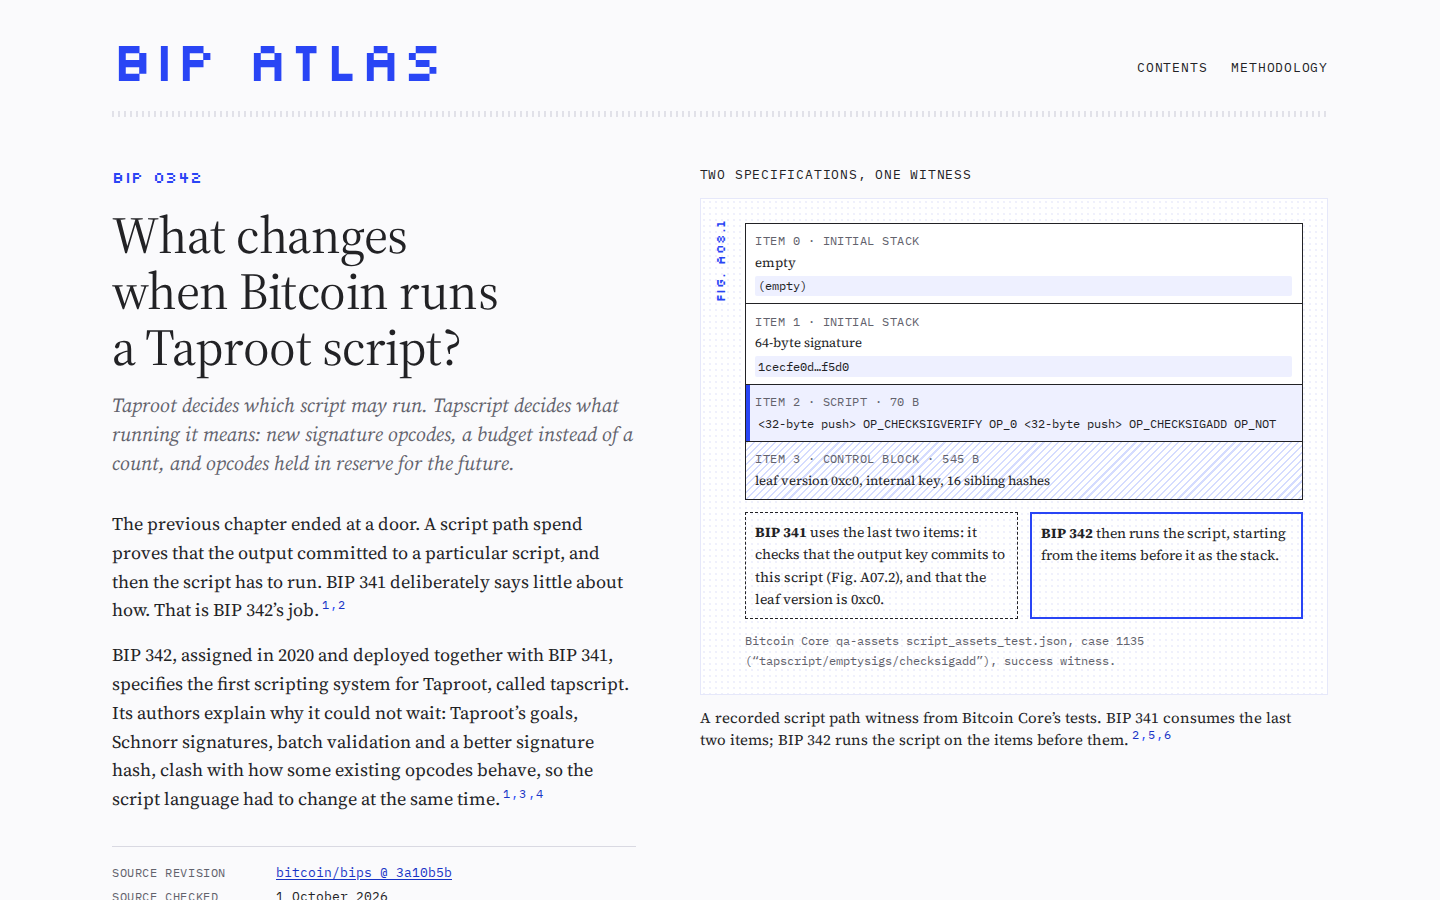
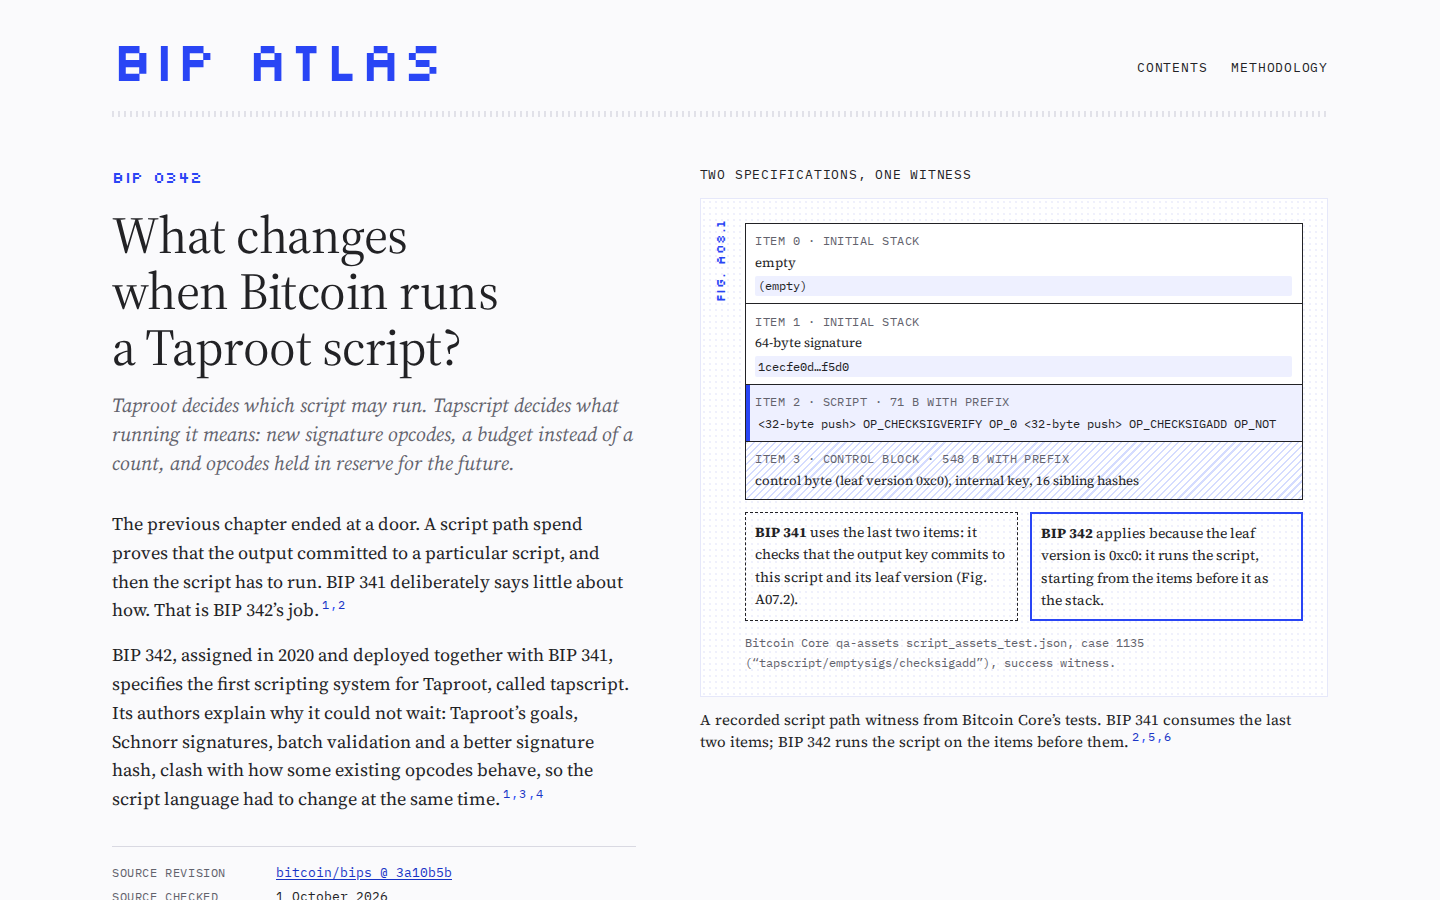
Apply Tapscript review; record phase two
Recorder: the 520-byte push limit now applies in unexecuted branches and a
non-empty scriptSig fails, each with a regression test. Prose, ledger scopes
and figure notes corrected per the independent review; review/phase-two.md
completed with all three reviews.

Claude-Session: https://claude.ai/code/session_01QKioyx8RLEZkE9rL1EegCS

diff --git a/packages/models/src/tapscript.ts b/packages/models/src/tapscript.ts
@@ -129,7 +129,7 @@ export interface TraceStep {
   failed?: boolean;
 }
 
-export type FailStage = "commitment" | "decode" | "initial-stack" | "execute" | "final-stack";
+export type FailStage = "bip141" | "commitment" | "decode" | "initial-stack" | "execute" | "final-stack";
 
 export interface Trace {
   scriptHex: string;
@@ -190,6 +190,7 @@ export function traceTapscript(c: ScriptAssetCase, which: "success" | "failure")
   const leafVersion = parseInt(control.slice(0, 2), 16) & 0xfe;
   if (leafVersion !== 0xc0) throw new TraceScopeError("leaf version is not 0xc0");
   const commitmentOk = checkControlBlock(spk.slice(4), scriptHex, control).ok;
+  const scriptSigEmpty = (c[which]!.scriptSig ?? "") === "";
   const budgetStart = 50 + witnessSize(w);
   const base = { scriptHex, leafVersion, initialStack: stack0, annexHex, witnessBytes: witnessSize(w), budgetStart, commitmentOk };
   const steps: TraceStep[] = [];
@@ -202,6 +203,7 @@ export function traceTapscript(c: ScriptAssetCase, which: "success" | "failure")
   if (decoded.kind === "ok") {
     for (const o of decoded.ops) if (o.dataHex === null && !SUPPORTED.has(o.op)) throw new TraceScopeError(`${o.name} is outside this recorder's reviewed opcode set`);
   }
+  if (!scriptSigEmpty) return end([], false, "bip141", "a native SegWit spend must have an empty scriptSig");
   if (!commitmentOk) return end([], false, "commitment", "the control block does not commit to this script");
 
   if (decoded.kind === "op-success") return end(decoded.ops, true, null, `${decoded.at.name} found while decoding: validation succeeds without executing anything`);
@@ -240,12 +242,13 @@ export function traceTapscript(c: ScriptAssetCase, which: "success" | "failure")
       step.stackAfter = before;
       return end(ops, false, "execute", why);
     };
+    // Core checks every push against the 520-byte limit, executed or not.
+    if (o.dataHex !== null && o.dataHex.length / 2 > 520) return fail("push larger than 520 bytes");
     if (!executed) {
       step.note = "in an unexecuted branch: skipped";
       continue;
     }
     if (o.dataHex !== null) {
-      if (o.dataHex.length / 2 > 520) return fail("push larger than 520 bytes");
       stack.push(o.dataHex);
       step.note = o.dataHex.length ? `push ${o.dataHex.length / 2} byte${o.dataHex.length === 2 ? "" : "s"}` : "push the empty vector";
     } else if (o.op === OP.OP_0) {
@@ -333,6 +336,8 @@ export function traceTapscript(c: ScriptAssetCase, which: "success" | "failure")
         n = dn;
       }
       const sig = stack.pop()!;
+      // Order follows BIP 342's text. Core charges the budget before the empty-key and BIP 340
+      // checks; verdicts agree, but a failing step's reason or budget display could differ.
       if (key.length === 0) return fail(`${o.name}: public key is empty`);
       let check: SigCheck = sig === "" ? "empty" : key.length === 64 ? (verifySig(sig, key) ? "valid" : "invalid") : "unknown-key-type";
       if (check === "invalid") {

diff --git a/packages/models/test/tapscript.test.ts b/packages/models/test/tapscript.test.ts
@@ -1,6 +1,7 @@
 import { createHash } from "node:crypto";
 import { existsSync, readFileSync } from "node:fs";
 import { describe, expect, it } from "vitest";
+import { taprootOutput } from "../src/taproot";
 import {
   TraceScopeError,
   castToBool,
@@ -138,6 +139,33 @@ describe("out-of-scope input rejection", () => {
   });
 });
 
+describe("rules found in review", () => {
+  /** Case 804's transaction, re-pointed at an output that commits to `scriptHex` alone. */
+  const committed = (scriptHex: string, stack: string[] = [], scriptSig = "") => {
+    const c = structuredClone(get(804));
[1 lines of base64/hex data omitted]
+    const out = taprootOutput(internal, { id: 0, script: scriptHex, leafVersion: 0xc0 });
+    const amount = c.prevouts[c.index].slice(0, 16);
+    c.prevouts[c.index] = amount + "22" + out.scriptPubKeyHex;
+    c.success = { scriptSig, witness: [...stack, scriptHex, out.controlBlocks[0]] };
+    return c;
+  };
+
+  it("checks the 520-byte push limit even in an unexecuted branch", () => {
+    const big = "4d0902" + "00".repeat(521); // PUSHDATA2 of 521 bytes
+    const t = traceTapscript(committed("0063" + big + "6851"), "success");
+    expect([t.valid, t.reason]).toEqual([false, "push larger than 520 bytes"]);
+    const ok = traceTapscript(committed("0063" + "4d0802" + "00".repeat(520) + "6851"), "success");
+    expect(ok.valid).toBe(true);
+  });
+
+  it("fails a spend with a non-empty scriptSig", () => {
+    const t = traceTapscript(committed("51", [], "00"), "success");
+    expect([t.valid, t.failStage]).toEqual([false, "bip141"]);
+    expect(traceTapscript(committed("51"), "success").valid).toBe(true);
+  });
+});
+
 describe("script numbers and truth", () => {
   it("round-trips minimal encodings and applies CastToBool", () => {
     for (const n of [0n, 1n, -1n, 23n, 24n, 127n, 128n, -128n, 255n, 256n, 2147483647n]) expect(decodeNum(encodeNum(n))).toBe(n);
@@ -207,7 +235,8 @@ describe("tapscript chapter fixtures and prose numbers", () => {
     expect(bip342[128]).toContain("201");
     expect(bip342[130]).toContain("1000 elements");
     expect(bip342[131]).toContain("520 bytes");
-    expect(text).toContain("The 10,000-byte script size limit and the 201-opcode limit do not apply");
-    expect(text).toContain("The limits of 1,000 stack elements and 520 bytes per element remain");
+    expect(text).toContain("The 10,000-byte script size limit and the 201 non-push opcode limit do not apply");
+    expect(text).toContain("The limit of 1,000 stack elements remains");
+    expect(text).toContain("elements still may not exceed 520 bytes");
   });
 });

diff --git a/packages/figures/src/tapscript/TapscriptWitness.tsx b/packages/figures/src/tapscript/TapscriptWitness.tsx
@@ -23,17 +23,17 @@ export function TapscriptWitness({ fixture }: { fixture: DerivedTapscriptFixture
           );
         })}
         <li data-part="script">
-          <span class="atlas-ts-witness__tag">item {v.initialStack.length} · script · {v.witness.scriptBytes} B</span>
+          <span class="atlas-ts-witness__tag">item {v.initialStack.length} · script · {v.witness.scriptBytes} B with prefix</span>
           <code class="atlas-break">{v.ops.map((o) => o.name).join(" ")}</code>
         </li>
         <li data-part="control">
-          <span class="atlas-ts-witness__tag">item {v.initialStack.length + 1} · control block · {v.witness.controlBytes} B</span>
-          <span>leaf version 0xc0, internal key, {(v.witness.controlBytes - 33) / 32} sibling hashes</span>
+          <span class="atlas-ts-witness__tag">item {v.initialStack.length + 1} · control block · {v.witness.controlBytes} B with prefix</span>
+          <span>control byte (leaf version 0xc0), internal key, {v.witness.siblings} sibling hashes</span>
         </li>
       </ol>
       <div class="atlas-ts-witness__split">
-        <p data-part="bip341"><strong>BIP 341</strong> uses the last two items: it checks that the output key commits to this script (Fig. A07.2), and that the leaf version is 0xc0.</p>
-        <p data-part="bip342"><strong>BIP 342</strong> then runs the script, starting from the items before it as the stack.</p>
+        <p data-part="bip341"><strong>BIP 341</strong> uses the last two items: it checks that the output key commits to this script and its leaf version (Fig. A07.2).</p>
+        <p data-part="bip342"><strong>BIP 342</strong> applies because the leaf version is 0xc0: it runs the script, starting from the items before it as the stack.</p>
       </div>
       <p class="atlas-lab__source">Bitcoin Core qa-assets script_assets_test.json, case {fixture.caseIndex} (“{fixture.comment}”), success witness.</p>
     </div>

diff --git a/packages/figures/src/tapscript/TapscriptTrace.tsx b/packages/figures/src/tapscript/TapscriptTrace.tsx
@@ -174,8 +174,8 @@ export function TapscriptTrace({ fixtures, figureId }: Props) {
             Remaining: <strong>{budgetNow}</strong> · non-empty signatures counted: {sigSoFar.filter((s) => s.sig!.check !== "empty" && s.sig!.check !== "invalid").length}
           </p>
           <p class="atlas-panel__scope">
-            Witness: {view.witness.items} items — initial stack {view.witness.stackBytes} B, script {view.witness.scriptBytes} B, control block {view.witness.controlBytes} B
-            {view.witness.annexBytes ? `, annex ${view.witness.annexBytes} B` : ""}. The control block was checked against the output key, as in Fig. A07.2.
+            Witness: {view.witness.totalBytes} bytes serialized = 1 (item count) + initial stack {view.witness.stackBytes} + script {view.witness.scriptBytes} + control block {view.witness.controlBytes}
+            {view.witness.annexBytes ? ` + annex ${view.witness.annexBytes}` : ""}, each part with its length prefix. The control block was checked against the output key, as in Fig. A07.2.
           </p>
         </section>
       </div>

diff --git a/packages/figures/src/tapscript/SigopsBudget.tsx b/packages/figures/src/tapscript/SigopsBudget.tsx
@@ -29,7 +29,10 @@ export function SigopsBudget({ fixtures }: { fixtures: DerivedTapscriptFixture[]
         <span><span class="atlas-ser__key" data-group="budget-spent" />spent by non-empty signatures</span>
         <span><span class="atlas-ser__key" data-group="budget-left" />remaining budget</span>
       </p>
-      <p class="atlas-lab__source">Success witnesses of the recorded Core test cases. Witness sizes include every item’s length prefix.</p>
+      <p class="atlas-lab__source">
+        Success witnesses of the recorded Core test cases. Witness sizes are serialized sizes: the item count plus every item with its length prefix.
+        The OP_SUCCESS spend never reaches the budget: it is valid before any opcode runs.
+      </p>
     </div>
   );
 }

diff --git a/apps/site/src/lib/derive.ts b/apps/site/src/lib/derive.ts
@@ -523,10 +523,11 @@ function traceView(c: any, which: "success" | "failure"): TapscriptTraceView {
     witness: {
       items: w.length,
       stackBytes: t.initialStack.reduce((n, e) => n + size(e), 0),
-      scriptBytes: t.scriptHex.length / 2,
-      controlBytes: control.length / 2,
-      annexBytes: t.annexHex ? t.annexHex.length / 2 : 0,
+      scriptBytes: size(t.scriptHex),
+      controlBytes: size(control),
+      annexBytes: t.annexHex ? size(t.annexHex) : 0,
       totalBytes: t.witnessBytes,
+      siblings: (control.length / 2 - 33) / 32,
     },
     budgetStart: t.budgetStart,
     sigOpsCounted: t.sigOpsCounted,

diff --git a/packages/figures/src/types.ts b/packages/figures/src/types.ts
@@ -305,7 +305,8 @@ export interface TapscriptTraceView {
   elements: TapscriptElement[];
   /** Indices into `elements`, bottom of stack first. */
   initialStack: number[];
-  witness: { items: number; stackBytes: number; scriptBytes: number; controlBytes: number; annexBytes: number; totalBytes: number };
+  /** Serialized sizes, each including its length prefix; totalBytes adds the item-count prefix. */
+  witness: { items: number; stackBytes: number; scriptBytes: number; controlBytes: number; annexBytes: number; totalBytes: number; siblings: number };
   budgetStart: number;
   sigOpsCounted: number;
   steps: Array<{

diff --git a/review/phase-two.md b/review/phase-two.md
@@ -4,9 +4,9 @@ Date: 1 October 2026. Status: **three draft chapters, awaiting human sign-off.**
 
 | Chapter | BIP | Hero figure | Default-path words | Independent review |
 |---|---|---|---|---|
-| Schnorr | 340 | `schnorr-verification.v1` | WORDS_SCHNORR | 6 should-fix + 5 nits, all applied |
-| Taproot | 341 | `taproot-commitment.v1` | WORDS_TAPROOT | 1 blocking (figure leak) + 8 should-fix + 8 nits, all applied |
-| Tapscript | 342 | `tapscript-trace.v1` | WORDS_TAPSCRIPT | TAPSCRIPT_SUMMARY |
+| Schnorr | 340 | `schnorr-verification.v1` | 1,276 | 6 should-fix + 5 nits, all applied |
+| Taproot | 341 | `taproot-commitment.v1` | 1,278 | 1 blocking (figure leak) + 8 should-fix + 8 nits, all applied |
+| Tapscript | 342 | `tapscript-trace.v1` | 1,257 | 1 blocking (recorder rule) + 9 should-fix + 4 nits, all applied |
 
 ## Sources
 
@@ -18,7 +18,7 @@ Date: 1 October 2026. Status: **three draft chapters, awaiting human sign-off.**
 
 - **BIP 340:** all 19 CSV vectors through a step-by-step `Verify` built on `@noble/curves` (lift_x, point arithmetic, tagged hash), each cross-checked against noble's own `schnorr.verify`; the failing stage of each invalid vector; the 8 vectors with secret keys reproduce their signatures (test-only helper); p and n match the BIP text; x ≥ p, r = p − 1, s = n − 1 edge cases; messages of 0, 1, 17, 32 and 100 bytes; every message swap in the hero fails at even-y or x-match.
 - **BIP 341:** all 7 scriptPubKey vectors (leaf hashes, Merkle root, tweak, output key, scriptPubKey, BIP 350 address, control blocks); every control block passes the BIP's commitment check for its own leaf and fails for other leaves, a flipped parity bit and another output key; all 7 key-path inputs (internal key, tweak, tweaked secret key, SigMsg, sighash and the published witness signature, byte for byte); SigMsg length formula for every hash type; undefined hash types, SINGLE without an output and an explicit 0x00 sighash byte rejected.
-- **BIP 342:** for each of the 6 reviewed Core cases, the recorder's verdict on both the success and the failure witness matches Core's label, every control block verifies, and the failure stops where the prose says; sigops budget arithmetic; OP_SUCCESSx ranges equal the BIP's list; unsupported opcodes (OP_ADD, OP_CODESEPARATOR, OP_CHECKLOCKTIMEVERIFY), key-path spends and non-0xc0 leaves throw `TraceScopeError`; a one-byte change to the transaction makes a valid signature fail.
+- **BIP 342:** the 520-byte push limit applies in unexecuted branches and a non-empty scriptSig fails (both regression tests from review); for each of the 6 reviewed Core cases, the recorder's verdict on both the success and the failure witness matches Core's label, every control block verifies, and the failure stops where the prose says; sigops budget arithmetic; OP_SUCCESSx ranges equal the BIP's list; unsupported opcodes (OP_ADD, OP_CODESEPARATOR, OP_CHECKLOCKTIMEVERIFY), key-path spends and non-0xc0 leaves throw `TraceScopeError`; a one-byte change to the transaction makes a valid signature fail.
 - **Optional sweep (not run in CI):** with `SCRIPT_ASSETS_FULL` pointing at the full pinned file, the recorder is run on every TAPROOT case. In this session it accepted 761 witnesses and agreed with Core's label on all 761; the other 1,960 were refused as out of scope; nothing crashed.
 - **Every chapter:** the shared content contracts (schema, catalog agreement including the exact allowed controls, word range, every claim cited, every quote verbatim, every fixture tied to a pinned line or external file, fixture kinds) and prose-number tests.
 - **Build fails closed** when a Schnorr fixture differs from its CSV line, a Taproot fixture differs from the wallet vectors, a Tapscript fixture differs from the pinned excerpt, or the excerpt's hash differs from the lock (each checked by deliberately corrupting it in this session).
@@ -81,4 +81,17 @@ Nits: negation of the secret key when P has odd y; "Among several changes"; aggr
 Deliberate breakage: unsorted branch hashing → 5 tests fail; dropping the parity comparison → 1; omitting compact_size in TapLeaf → 6; including sha_outputs under SIGHASH_SINGLE → 3.
 Note: the vectors' "sigMsg" field includes the 0x00 epoch byte in front of SigMsg as BIP 341 defines it; the tests account for this.
 
-TAPSCRIPT_REVIEW_NOTES
+### Tapscript (BIP 342) — independent review
+Reviewer: fresh subagent with the chapter, ledger, recorder, taproot model, figures, derive checks, the pinned excerpt and lock. It fetched the upstream file at the pinned commit itself (hash matches; all six excerpt cases byte-identical), re-ran the full sweep (761 traced and agreeing, 0 disagreeing, 1,960 refused), and probed the recorder with its own committed leaves. 1 blocking, 9 should-fix, 4 nits — all applied:
+1. **Blocking — recorder rule.** The 520-byte push limit was checked only for executed pushes; Core checks every push. A committed `OP_0 OP_IF <521-byte push> OP_ENDIF OP_1` was accepted. Fixed (checked before the branch test) with a regression test that builds such a leaf; 520 bytes still passes.
+2. A non-empty scriptSig was ignored (Core: WITNESS_MALLEATED) → now fails at a new `bip141` stage, with a test.
+3. "warn, in bold" was false (only the footnote heading is bold) → "in a footnote".
+4. OP_SUCCESSx order overstated → "once the BIP 141 and BIP 341 checks have passed … before the remaining tapscript rules"; the recorded case (opcode 126) is now named in that paragraph.
+5. "every edge in MUST language" → "each case; the failure cases use MUST".
+6. Caveat said the recorder supports only the cases' opcodes → "a small reviewed set of opcodes".
+7. Limits sentence over-applied the change → only the 1,000-element limit is extended to the initial stack; the 520-byte limit remains.
+8. Scope labels: `multisig-rewrite` → author-rationale; `checksigadd` and `op-success` split so footnote rationale sits in author-rationale claims.
+9. Missing quotes added: BIP 342 L29 (simultaneously), L80 (threshold signatures), BIP 341 L81 (other leaf versions succeed).
+10. Fig. A08.1 credited BIP 341 with the 0xc0 check → BIP 342 applies because the leaf version is 0xc0.
+Nits: witness byte counts now consistently include length prefixes and the item count, and sum to the total; the budget figure notes that the OP_SUCCESS spend never reaches the budget; "201 non-push opcode limit"; a model comment notes that Core charges the budget before the empty-key and BIP 340 checks (same verdicts); a new paragraph says the OP_SUCCESS and unknown-key cases are upgrade hooks that consensus accepts but are not safe to use, and that the qa-assets commit is this site's choice (BIP 341 links `main`).
+
